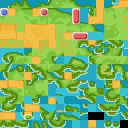
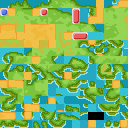
Region Map fly locations
Updates Fly icons. Towns (blue) and POIs (green) use their own highlight graphics. These arrays can be easily expanded. Points Of Interest (currently only Battle Frontier) have no map marker until discovered.
Evergrande City needs the special case removing, not implemented yet as the map needs splitting into two first.

Changed region(s): [[0.9375, 0.9375, 1.0, 1.0], [0.1875, 0.875, 0.25, 0.9375]]

diff --git a/src/region_map.c b/src/region_map.c
@@ -46,6 +46,9 @@
 #define MAPCURSOR_Y_MAX (MAPCURSOR_Y_MIN + MAP_HEIGHT - 1)
 
 #define FLYDESTICON_RED_OUTLINE 6
+#define FLYDESTICON_TOWN 7
+#define FLYDESTICON_GREEN_CANFLY 8
+#define FLYDESTICON_GREEN_SELECT 9
 
 enum {
     TAG_CURSOR,
@@ -432,6 +435,18 @@ static const u16 sRedOutlineFlyDestinations[][2] =
     }
 };
 
+// List of mapsec that use blue town sprites
+static const u16 sTownFlyDestinations[] =
+{
+	MAPSEC_OLDALE_TOWN,
+	MAPSEC_DEWFORD_TOWN,
+	MAPSEC_LAVARIDGE_TOWN,
+	MAPSEC_FALLARBOR_TOWN,
+	MAPSEC_VERDANTURF_TOWN,
+	MAPSEC_PACIFIDLOG_TOWN,
+	MAPSEC_NONE
+};
+
 static const struct OamData sFlyDestIcon_OamData =
 {
     .shape = SPRITE_SHAPE(8x8),
@@ -482,6 +497,26 @@ static const union AnimCmd sFlyDestIcon_Anim_RedOutline[] =
     ANIMCMD_END
 };
 
+static const union AnimCmd sFlyDestIcon_Anim_Town[] =
+{
+    ANIMCMD_FRAME(11, 5),
+    ANIMCMD_END
+};
+
+static const union AnimCmd sFlyDestIcon_Anim_GreenCanFly[] =
+{
+    ANIMCMD_FRAME( 10, 16),
+    ANIMCMD_END
+};
+
+static const union AnimCmd sFlyDestIcon_Anim_GreenSelected[] =
+{
+    ANIMCMD_FRAME( 10, 16),
+    ANIMCMD_FRAME( 12, 16),
+	ANIMCMD_JUMP(0),
+    ANIMCMD_END
+};
+
 static const union AnimCmd *const sFlyDestIcon_Anims[] =
 {
     [SPRITE_SHAPE(8x8)]       = sFlyDestIcon_Anim_8x8CanFly,
@@ -490,7 +525,10 @@ static const union AnimCmd *const sFlyDestIcon_Anims[] =
     [SPRITE_SHAPE(8x8)  + 3]  = sFlyDestIcon_Anim_8x8CantFly,
     [SPRITE_SHAPE(16x8) + 3]  = sFlyDestIcon_Anim_16x8CantFly,
     [SPRITE_SHAPE(8x16) + 3]  = sFlyDestIcon_Anim_8x16CantFly,
-    [FLYDESTICON_RED_OUTLINE] = sFlyDestIcon_Anim_RedOutline
+    [FLYDESTICON_RED_OUTLINE] = sFlyDestIcon_Anim_RedOutline,
+    [FLYDESTICON_TOWN] 		  = sFlyDestIcon_Anim_Town,
+    [FLYDESTICON_GREEN_CANFLY]      = sFlyDestIcon_Anim_GreenCanFly,
+    [FLYDESTICON_GREEN_SELECT]      = sFlyDestIcon_Anim_GreenSelected
 };
 
 static const struct SpriteTemplate sFlyDestIconSpriteTemplate =
@@ -1909,6 +1947,18 @@ static void LoadFlyDestIcons(void)
 #define sIconMapSec   data[0]
 #define sFlickerTimer data[1]
 
+// Check if mapsec has an entry in sTownFlyDestinations
+static bool8 IsTownFlyDestination(u16 mapSecId)
+{
+    u16 i;
+    for (i = 0; sTownFlyDestinations[i] != MAPSEC_NONE; i++)
+    {
+        if (sTownFlyDestinations[i] == mapSecId)
+            return TRUE;
+    }
+    return FALSE;
+}
+
 static void CreateFlyDestIcons(void)
 {
     u16 canFlyFlag;
@@ -1918,6 +1968,7 @@ static void CreateFlyDestIcons(void)
     u16 width;
     u16 height;
     u16 shape;
+    u16 animNum;
     u8 spriteId;
 
     canFlyFlag = FLAG_VISITED_LITTLEROOT_TOWN;
@@ -1927,12 +1978,26 @@ static void CreateFlyDestIcons(void)
         x = (x + MAPCURSOR_X_MIN) * 8 + 4;
         y = (y + MAPCURSOR_Y_MIN) * 8 + 4;
 
-        if (width == 2)
+		if (width == 2)
+		{
             shape = SPRITE_SHAPE(16x8);
+            animNum = SPRITE_SHAPE(16x8);
+		}
         else if (height == 2)
+		{
             shape = SPRITE_SHAPE(8x16);
-        else
+            animNum = SPRITE_SHAPE(8x16);
+		}
+        else if (IsTownFlyDestination(mapSecId))
+		{
             shape = SPRITE_SHAPE(8x8);
+            animNum = FLYDESTICON_TOWN;
+		}
+        else
+		{
+            shape = SPRITE_SHAPE(8x8);
+			animNum = SPRITE_SHAPE(8x8);
+		}
 
         spriteId = CreateSprite(&sFlyDestIconSpriteTemplate, x, y, 10);
         if (spriteId != MAX_SPRITES)
@@ -1940,12 +2005,17 @@ static void CreateFlyDestIcons(void)
             gSprites[spriteId].oam.shape = shape;
 
             if (FlagGet(canFlyFlag))
+			{
                 gSprites[spriteId].callback = SpriteCB_FlyDestIcon;
+			    StartSpriteAnim(&gSprites[spriteId], animNum);
+				gSprites[spriteId].sIconMapSec = mapSecId;
+			}
             else
+			{
                 shape += 3;
-
-            StartSpriteAnim(&gSprites[spriteId], shape);
-            gSprites[spriteId].sIconMapSec = mapSecId;
+				StartSpriteAnim(&gSprites[spriteId], shape);
+				gSprites[spriteId].sIconMapSec = mapSecId;
+			}
         }
         canFlyFlag++;
     }
@@ -1965,40 +2035,66 @@ static void TryCreateRedOutlineFlyDestIcons(void)
 
     for (i = 0; sRedOutlineFlyDestinations[i][1] != MAPSEC_NONE; i++)
     {
+		
         if (FlagGet(sRedOutlineFlyDestinations[i][0]))
         {
-            mapSecId = sRedOutlineFlyDestinations[i][1];
-            GetMapSecDimensions(mapSecId, &x, &y, &width, &height);
-            x = (x + MAPCURSOR_X_MIN) * 8;
-            y = (y + MAPCURSOR_Y_MIN) * 8;
+			mapSecId = sRedOutlineFlyDestinations[i][1];
+			GetMapSecDimensions(mapSecId, &x, &y, &width, &height);
+			x = (x + MAPCURSOR_X_MIN) * 8 + 4;
+			y = (y + MAPCURSOR_Y_MIN) * 8 + 4;
             spriteId = CreateSprite(&sFlyDestIconSpriteTemplate, x, y, 10);
             if (spriteId != MAX_SPRITES)
             {
-                gSprites[spriteId].oam.size = SPRITE_SIZE(16x16);
                 gSprites[spriteId].callback = SpriteCB_FlyDestIcon;
-                StartSpriteAnim(&gSprites[spriteId], FLYDESTICON_RED_OUTLINE);
+				StartSpriteAnim(&gSprites[spriteId], FLYDESTICON_GREEN_CANFLY);
                 gSprites[spriteId].sIconMapSec = mapSecId;
             }
         }
+	}
+}
+
+// Check if mapsec has an entry in sRedOutlineFlyDestinations
+static bool8 IsRedOutlineFlyDestination(u16 mapSecId) 
+{
+    u16 i;
+    for (i = 0; sRedOutlineFlyDestinations[i][1] != MAPSEC_NONE; i++)
+    {
+        if (sRedOutlineFlyDestinations[i][1] == mapSecId)
+            return TRUE;
     }
+    return FALSE;
 }
 
 // Flickers fly destination icon color (by hiding the fly icon sprite) if the cursor is currently on it
 static void SpriteCB_FlyDestIcon(struct Sprite *sprite)
 {
-    if (sFlyMap->regionMap.mapSecId == sprite->sIconMapSec)
-    {
-        if (++sprite->sFlickerTimer > 16)
-        {
-            sprite->sFlickerTimer = 0;
-            sprite->invisible = sprite->invisible ? FALSE : TRUE;
-        }
-    }
-    else
-    {
-        sprite->sFlickerTimer = 16;
-        sprite->invisible = FALSE;
-    }
+	if (IsRedOutlineFlyDestination(sprite->sIconMapSec))
+		{
+			sprite->invisible = FALSE;
+			if (IsRedOutlineFlyDestination(sFlyMap->regionMap.mapSecId))
+			{
+				// Cursor is on Battle Frontier -> Play highlight animation
+				StartSpriteAnimIfDifferent(sprite, FLYDESTICON_GREEN_SELECT);
+			}
+			else
+			{
+				// Cursor moved away -> Reset to default
+				StartSpriteAnimIfDifferent(sprite, FLYDESTICON_GREEN_CANFLY);
+			}
+		}
+		else if (sFlyMap->regionMap.mapSecId == sprite->sIconMapSec)
+		{
+			if (++sprite->sFlickerTimer > 16)
+			{
+				sprite->sFlickerTimer = 0;
+				sprite->invisible = sprite->invisible ? FALSE : TRUE;
+			}
+		}
+		else
+		{
+			sprite->sFlickerTimer = 16;
+			sprite->invisible = TRUE;
+		}
 }
 
 #undef sIconMapSec
@@ -2076,12 +2172,12 @@ static void CB_ExitFlyMap(void)
                         case MAPSEC_LITTLEROOT_TOWN:
                             SetWarpDestinationToHealLocation(gSaveBlock2Ptr->playerGender == MALE ? HEAL_LOCATION_LITTLEROOT_TOWN_BRENDANS_HOUSE : HEAL_LOCATION_LITTLEROOT_TOWN_MAYS_HOUSE);
                             break;
-                        case MAPSEC_EVER_GRANDE_CITY:
+                        /*case MAPSEC_EVER_GRANDE_CITY:
                             SetWarpDestinationToHealLocation(FlagGet(FLAG_LANDMARK_POKEMON_LEAGUE) && sFlyMap->regionMap.posWithinMapSec == 0 ? HEAL_LOCATION_EVER_GRANDE_CITY_POKEMON_LEAGUE : HEAL_LOCATION_EVER_GRANDE_CITY);
                             break;
 						case MAPSEC_MT_CHIMNEY:
 							SetWarpDestinationToHealLocation(HEAL_LOCATION_MT_CHIMNEY);
-							break;
+							break;*/
                         default:
                             if (sMapHealLocations[sFlyMap->regionMap.mapSecId][2] != HEAL_LOCATION_NONE)
                                 SetWarpDestinationToHealLocation(sMapHealLocations[sFlyMap->regionMap.mapSecId][2]);
